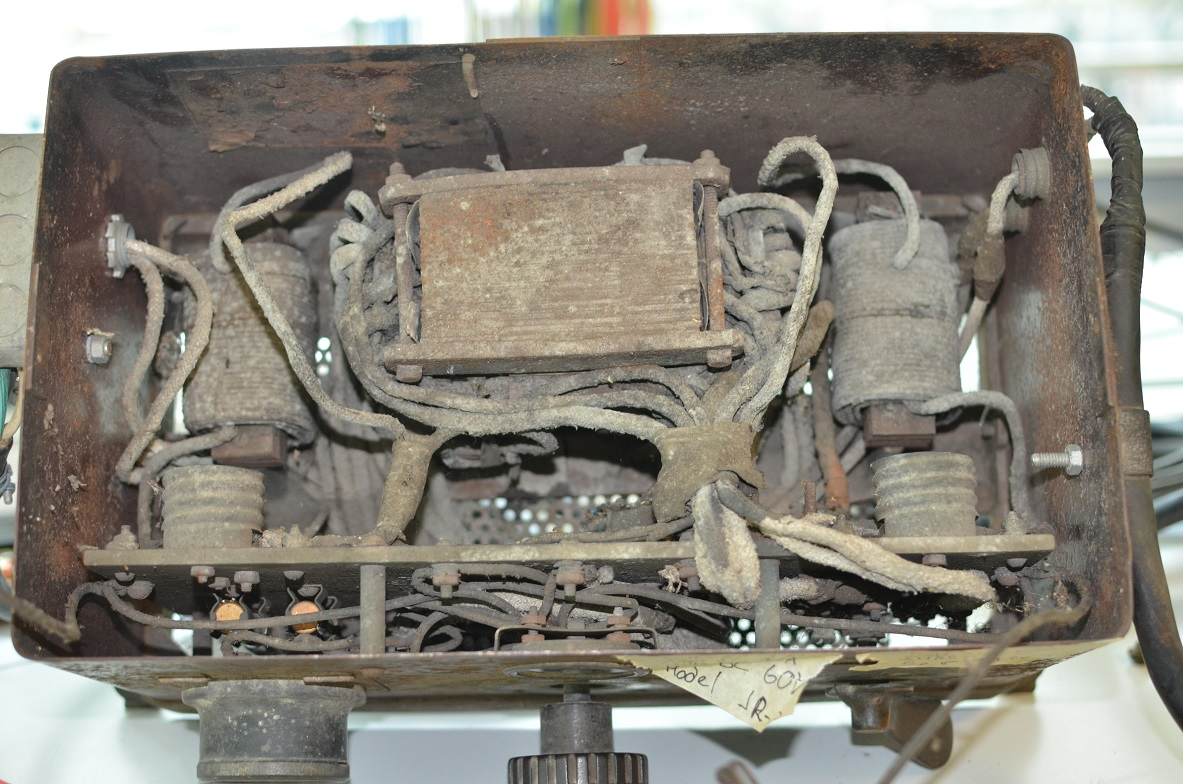
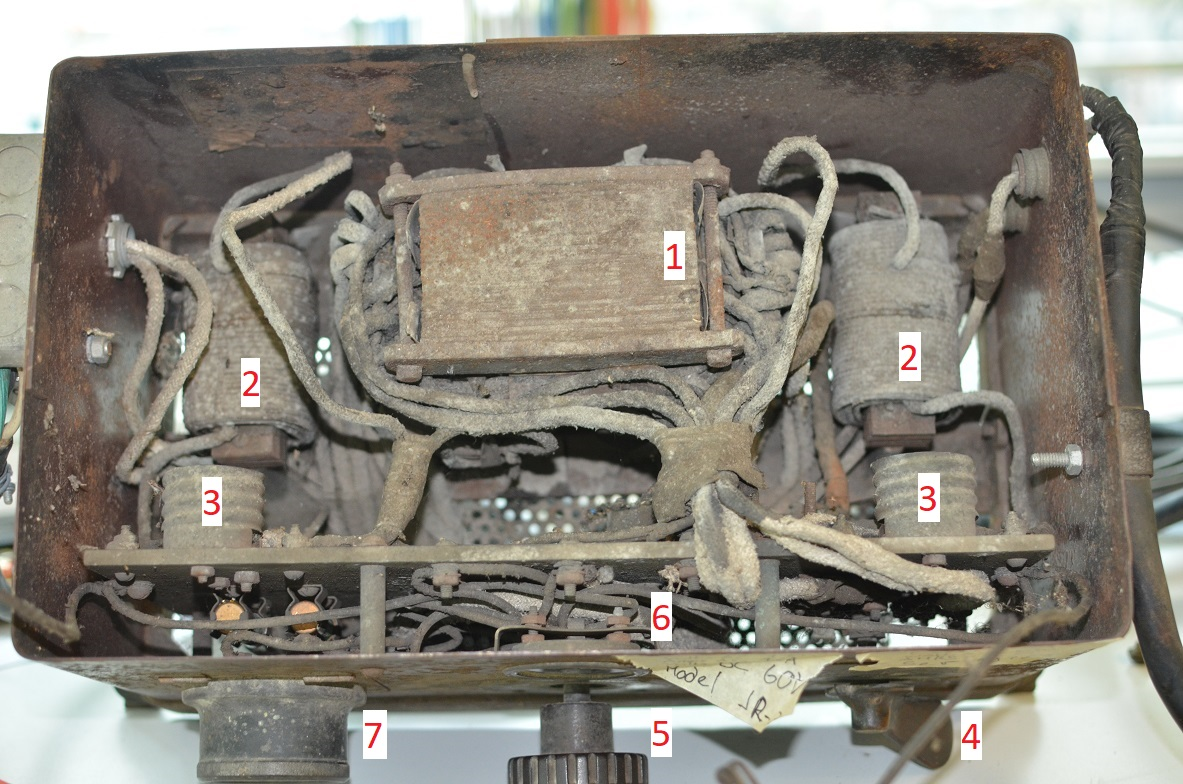
Changes altes Ladegerät, Parameter BMS

diff --git a/chapters/230_Laden.tex b/chapters/230_Laden.tex
@@ -82,8 +82,8 @@ Abschliessend soll noch ein Blick in das originale Ladegerät geworfen werden (s
 
 \begin{figure}[h]
 	\centering
-		\includegraphics[width=1.0\textwidth]{images/Ladegeraet_Original.JPG}
-	\caption{Das geöffnete originale Ladegerät von Oben betrachtet}
+		\includegraphics[width=0.95\textwidth]{images/Ladegeraet_Original.JPG}
+	\caption{Das geöffnete originale Ladegerät von Oben betrachtet (1: Transformator, 2: Drosselspule, 3: Sockel für Gleichrichterröhren, 4: Umschalter Ladestufe, 5: Spannungsregelung Transformator, 6: Symmetrieüberwachung, 7:Amperemeter)}
 	\label{fig:Ladegeraet_Original}
 \end{figure}
 

diff --git a/chapters/701_AnhangBMS.tex b/chapters/701_AnhangBMS.tex
@@ -112,8 +112,8 @@ Diese Parameter wurden vom Ladegerät übernommen \cite{ladegeraet}\\
 \section*{Current measurement}
 \begin{tabular}{p{11cm}p{4cm}}
 	Sensor type & \textcolor{blue}{Emus BMS Gen2 Dual Range Current Sensor} \\
-	L Calibration Value & \textcolor{blue}{Siehe Bauteil} \\
-	H Calibration Value & \textcolor{blue}{Siehe Bauteil} \\
+	L Calibration Value & \textcolor{blue}{2837 (Bat. 1), 2830 (Bat. 2)} \\
+	H Calibration Value & \textcolor{blue}{31837 (Bat. 1), 31875 (Bat. 2)} \\
 	Deadzone & $0.1$ A \\
 	Reverse Direction & Nein \textcolor{blue}{\textit{Ja} $^{6)}$}
 \end{tabular}
